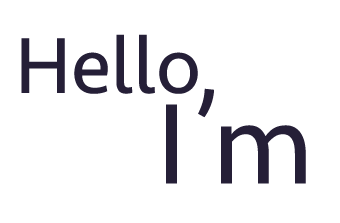
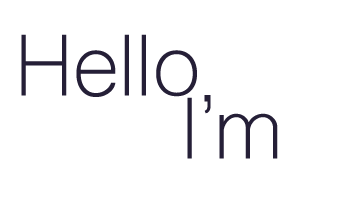
made layout adjustments to header text

Changed region(s): [[0.0588, 0.1345, 0.6471, 0.8341], [0.6471, 0.5112, 0.9118, 0.8341]]

diff --git a/Public/index.html b/Public/index.html
@@ -22,9 +22,11 @@
 </head>
 <body>
     <header>
-        <img class="hello-img" src="images/hello-msg.png" alt="A message saying, Hello I'm...">
-       <img class="header-img" src="images/header-transparent.png" alt="A photo of Kate Dameron next to her name"> 
-       <h2><strong class="">UX Designer, Web Developer & Artist.</strong><br>interested in meaningful projects.<br> collaborations and opportunities.<br> to boost positive change<br> within communities.</h2>
+        <img class="hello-img" src="images/hello.png" alt="A message saying, Hello I'm...">
+        <img class="header-img" src="images/header-transparent.png" alt="A photo of Kate Dameron next to her name"> 
+        <h2><strong>UX Designer, Web Developer & Artist.</strong>       
+            <p>Interested in meaningful projects, collaborations and opportunities to boost positive change within communities.</p>
+        </h2>
     </header>
     <img src="images/landscape-3.jpg" class="header-span-img">
     <span class="icon icon-menu"></span>

diff --git a/Public/CSS/header.css b/Public/CSS/header.css
@@ -5,11 +5,15 @@ header {
     width: 100vw; 
 }
 header h2 {
-    font-size: large;
+    font-size: 3em;
     margin: 30% 0 0 0;
-    padding: 0.5em;
-    text-align: left;
+    padding: 1em;
+    text-align: center;
     background-color: #262037;
+    color: whitesmoke;
+}
+header h2 p {
+    padding: 0.5em;
     color: #f8764c;
 }
 .header-img {
@@ -29,6 +33,7 @@ header h2 {
     bottom: -50%;
     width: 100vw;
     z-index: -10;
+    opacity: 0.8;
 }
 /*================== MIN-WIDTH 400px*/
 @media only screen and (min-width: 400px) {
